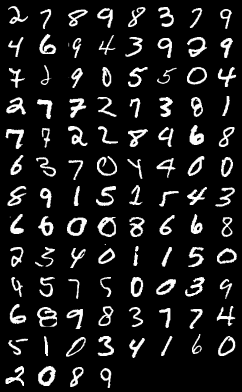
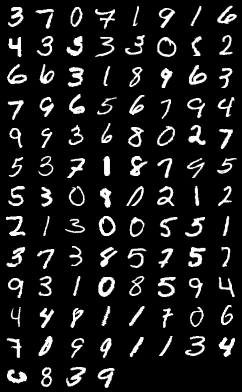
GAN VAE seems to work.

diff --git a/gan_vae.py b/gan_vae.py
@@ -45,6 +45,42 @@ test_loader = torch.utils.data.DataLoader(
 #    if classname.find('fc1
 
 
+class VAE(nn.Module):
+    def __init__(self):
+        super(VAE, self).__init__()
+
+        self.fc1 = nn.Linear(784, 400)
+        self.fc21 = nn.Linear(400, 20)
+        self.fc22 = nn.Linear(400, 20)
+        self.fc3 = nn.Linear(20, 400)
+        self.fc4 = nn.Linear(400, 784)
+
+        self.relu = nn.ReLU()
+        self.sigmoid = nn.Sigmoid()
+
+    def encode(self, x):
+        h1 = self.relu(self.fc1(x))
+        return self.fc21(h1), self.fc22(h1)
+
+    def reparameterize(self, mu, logvar):
+        if self.training:
+          std = logvar.mul(0.5).exp_()
+          eps = Variable(std.data.new(std.size()).normal_())
+          return eps.mul(std).add_(mu)
+        else:
+          return mu
+
+    def decode(self, z):
+        h3 = self.relu(self.fc3(z))
+        return self.sigmoid(self.fc4(h3))
+
+    def forward(self, x):
+        mu, logvar = self.encode(x.view(-1, 784))
+        z = self.reparameterize(mu, logvar)
+        return self.decode(z).view(-1,28,28), mu, logvar
+
+
+
 class _netG(nn.Module):
     def __init__(self):
         super(_netG, self).__init__()
@@ -75,73 +111,12 @@ class _netG(nn.Module):
         z = z.view(-1,z.size(1),1,1)
         return self.main(z)
 
-
-class VAE(nn.Module):
-    def __init__(self):
-        super(VAE, self).__init__()
-
-        self.fc1 = nn.Linear(784, 400)
-        self.fc21 = nn.Linear(400, 20)
-        self.fc22 = nn.Linear(400, 20)
-        self.fc3 = nn.Linear(20, 400)
-        self.fc4 = nn.Linear(400, 784)
-
-        self.relu = nn.ReLU()
-        self.sigmoid = nn.Sigmoid()
-
-        self.main = nn.Sequential(
-        #1x1->4x4
-            nn.ConvTranspose2d(20,20*8,4,1,0,bias=False),  #(ic,oc,kernel,stride,padding)
-            nn.BatchNorm2d(20*8), 
-            nn.ReLU(True),
-            nn.ConvTranspose2d(20*8,20*8,4,2,1,bias=False), #4x4->8x8
-            nn.BatchNorm2d(20*8),
-            nn.ReLU(True),
-            nn.ConvTranspose2d(20*8,20*8,4,2,1,bias=False), #8x8->16x16
-            nn.BatchNorm2d(20*8),
-            nn.ReLU(True),
-            nn.ConvTranspose2d(20*8,1,2,2,2,bias=False), #16x16->28x28
-            nn.Tanh()
-            )
-
-
-    def encode(self, x):
-        h1 = self.relu(self.fc1(x))
-        return self.fc21(h1), self.fc22(h1)
-
-    def reparameterize(self, mu, logvar):
-        if self.training:
-          std = logvar.mul(0.5).exp_()
-          eps = Variable(std.data.new(std.size()).normal_())
-          return eps.mul(std).add_(mu)
-        else:
-          return mu
-
-
-
-    def decode(self, z):
-        #h3 = self.relu(self.fc3(z))
-        #return self.sigmoid(self.fc4(h3))
-        #z (bsz, 20)
-        z = z.view(-1,z.size(1),1,1)
-        return self.main(z)
-
-    def forward(self, x):
-        print('x.size() ', x.size())
-        mu, logvar = self.encode(x.view(-1, 784))
-        z = self.reparameterize(mu, logvar)
-        return self.decode(z), mu, logvar
-
-
-#model = VAE()
-#if USE_CUDA
-#    model.cuda()
-
-
-
 class _netD(nn.Module):
     def __init__(self):
         super(_netD, self).__init__()
+
+
+        """
         self.main = nn.Sequential(
         #state size 1x28x28
             #28x28->16x16
@@ -157,51 +132,66 @@ class _netD(nn.Module):
             #4x4->1x1
             nn.Conv2d(32,1,4,1,0),
             nn.Sigmoid()
+            )"""
+
+        
+        self.main = nn.Sequential(
+            nn.Conv2d(1,8,2,2,2,bias=False),
+            nn.LeakyReLU(0.2,inplace=True),
+            nn.Conv2d(8,16,4,2,1,bias=False),
+            nn.LeakyReLU(0.2,inplace=True), #8x8
+            nn.Conv2d(16,1,8,1,0), #1x1
+            nn.Sigmoid()
             )
 
+        """
+        self.main = nn.Sequential(
+            nn.Linear(784,1),
+            nn.Sigmoid()
+            )"""
+
+
+
     def forward(self,x):
-        #o = self.main(x.view(-1,1,28,28))
-        print('xD.size()', x.size())
         o = self.main(x.view(-1,1,28,28))
+        #o = self.main(x.view(-1,784))
+        print('o.size()',o.size())
         return o
-        
 
 
+def loss_function(recon_x, x, mu, logvar):
+    #BCE = F.binary_cross_entropy(recon_x.view(-1,784), x.view(-1, 784))
+    MSE = F.mse_loss(recon_x.view(-1,784), x.view(-1,784))
+
+    # see Appendix B from VAE paper:
+    # Kingma and Welling. Auto-Encoding Variational Bayes. ICLR, 2014
+    # https://arxiv.org/abs/1312.6114
+    # 0.5 * sum(1 + log(sigma^2) - mu^2 - sigma^2)
+    KLD = -0.5 * torch.sum(1 + logvar - mu.pow(2) - logvar.exp())
+    # Normalise by same number of elements as in reconstruction
+    KLD /= args.batch_size * 784
+
+    return MSE + KLD
+
+
+bsz = 100
+
+def loss_new(gan_loss,mu,logvar):
+    KLD = -0.5 * torch.sum(1 + logvar - mu.pow(2) - logvar.exp())
+    # Normalise by same number of elements as in reconstruction
+    KLD /= bsz * 784
+
+    return gan_loss + KLD
+    
 
 
 criterion = nn.BCELoss()
 
-
-
-
-    
-
-
-netG = _netG()
-#netG = VAE()
+netG = VAE()
 netD = _netD()
 
 optimizerD = optim.Adam(netD.parameters(), lr = 1e-3)
 optimizerG = optim.Adam(netG.parameters(), lr = 1e-3)
-
-bsz = 100
-
-
-
-def loss_function(gan_loss, mu, logvar):
-    KLD = -0.5 * torch.sum(1 + logvar - mu.pow(2) - logvar.exp())
-    KLD/= bsz * 784
-
-    return gan_loss + KLD
-
-
-def vae_loss(recon_x, x, mu, logvar):
-    BCE = F.binary_cross_entropy(recon_x.view(-1,784),x.view(-1,784))
-
-    KLD = -0.5 * torch.sum(1 + logvar - mu.pow(2) - logvar.exp())
-    KLD /=bsz * 784
-
-    return BCE + KLD
 
 
 
@@ -224,7 +214,7 @@ if(USE_CUDA):
     criterion = criterion.cuda()
     input, label = input.cuda(), label.cuda()
     noise = noise.cuda()
-#    fixed_noise = fixed_noise.cuda()
+    fixed_noise = fixed_noise.cuda()
 
 fixed_noise = Variable(fixed_noise)
 
@@ -243,7 +233,7 @@ for epoch in range(10000):
         inputv = Variable(input)
         labelv = Variable(label)
 
-#        print('real cpu', real_cpu.size())
+        print('real cpu', real_cpu.size())
         
         output = netD(inputv)
         errD_real = criterion(output, labelv)
@@ -251,9 +241,9 @@ for epoch in range(10000):
         D_x = output.data.mean()
 
         #train with fake
- #       noise.resize_(bsz, 20).normal_(0,1)
-        #fake, mu, logvar= netG(inputv)
-        fake= netG(inputv)
+        noise.resize_(bsz, 20).normal_(0,1)
+        noisev = Variable(noise)
+        fake,mu,logvar = netG(inputv)
         labelv = Variable(label.fill_(fake_label))
         output = netD(fake.detach())
         errD_fake = criterion(output, labelv)
@@ -261,14 +251,14 @@ for epoch in range(10000):
         D_G_z1 = output.data.mean()
         errD = errD_real + errD_fake
         optimizerD.step()
+
         
-        # update G: maximize  log((D(G(z))
+        # update G: maximize log((D(G(z))
         netG.zero_grad()
         labelv = Variable(label.fill_(real_label))
         output = netD(fake)
-        errG = criterion(output, labelv)
-        #errG = vae_loss(fake,inputv,mu,logvar)
-        #errG = loss_function(errG, mu, logvar)
+        #errG = criterion(output,labelv) + loss_function(fake,inputv,mu,logvar)
+        errG = loss_function(fake,inputv,mu,logvar) + 0.5*criterion(output,labelv)
         errG.backward()
         D_G_z2 = output.data.mean()
         optimizerG.step()
@@ -277,15 +267,13 @@ for epoch in range(10000):
               % (epoch, 100, i, len(train_loader),
                  errD.data[0], errG.data[0], D_x, D_G_z1, D_G_z2))
         if i % 100 == 0:
-            comparison = torch.cat([inputv[:8],fake.view(bsz,1,28,28)[:8]])
-            save_image(comparison.data.cpu(), 'results/recon.png',nrow=8)
-#            vutils.save_image(real_cpu,
-#                    '%s/real_samples.png' % args.outf,
-#                    normalize=True)
-#            fake = netG(fixed_noise)
-#            vutils.save_image(fake.data.view(-1,1,28,28),
-#                    '%s/fake_samples.png' % (args.outf),
-#                    normalize=True)
+            print('real_cpu.size()', real_cpu.size())
+            vutils.save_image(real_cpu,
+                    '%s/real_samples.png' % args.outf,
+                    normalize=True)
+            vutils.save_image(fake.data.view(-1,1,28,28),
+                    '%s/fake_samples.png' % (args.outf),
+                    normalize=True)
 
     # do checkpointing
     #torch.save(netG.state_dict(), '%s/netG_epoch_%d.pth' % (args.outf, epoch))
